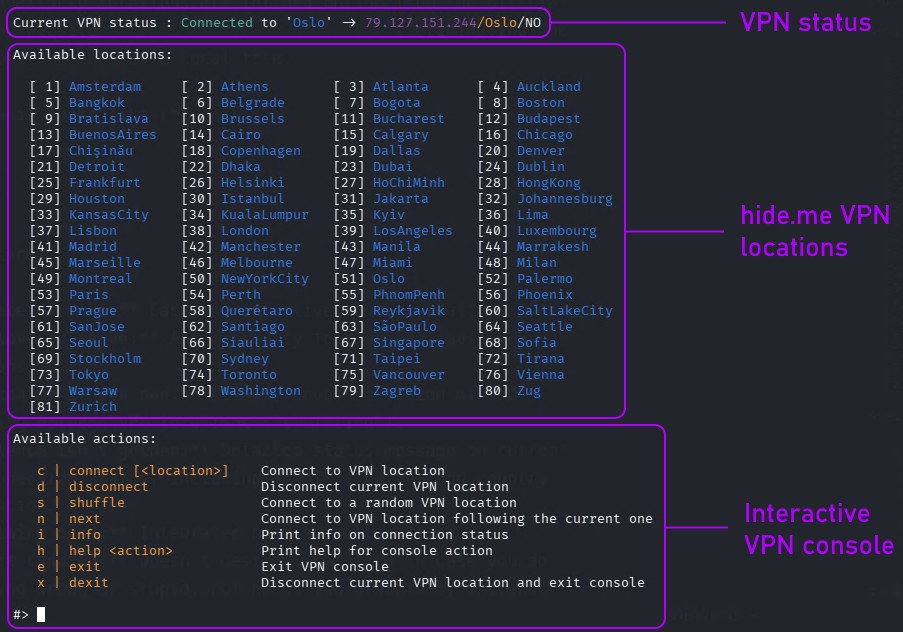
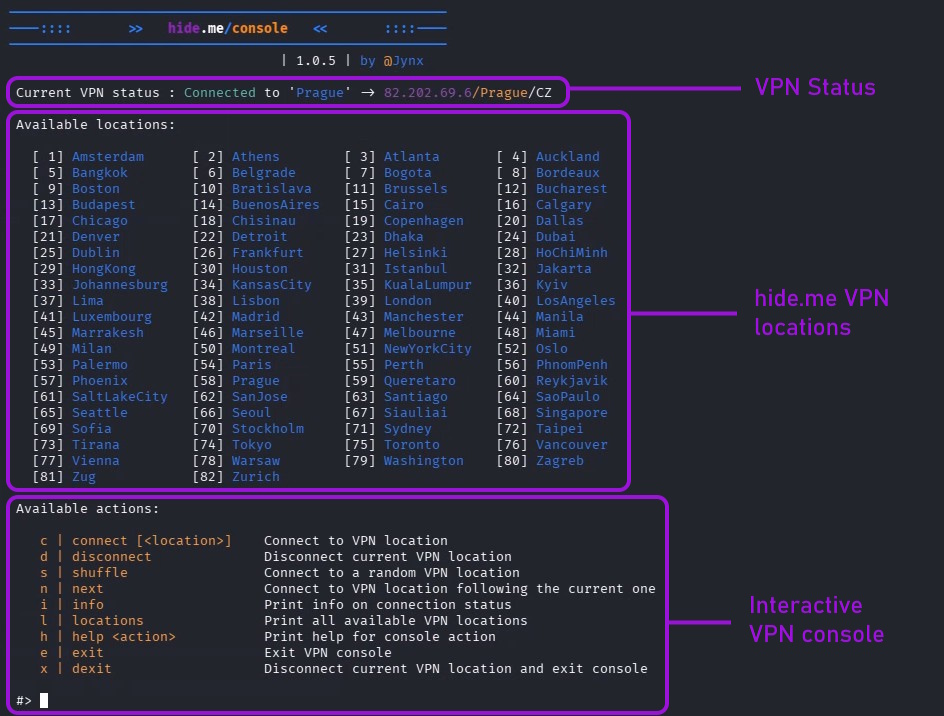
Added action 'locations'; added removal of 'zombie' units; improved handling of locations with names that contain special characters; improved error handling; user experience and script feedback slightly improved.

Changed region(s): [[0.0, 0.0, 0.9922, 1.0]]

diff --git a/README.md b/README.md
@@ -5,7 +5,7 @@ ____     _     _     _                             __                       _   
   > > > | '_ \| |/ _` |/ _ \ | '_ ` _ \ / _ \   / / __/ _ \| '_ \/ __|/ _ \| |/ _ \ < < <  
  / / /  | | | | | (_| |  __/_| | | | | |  __/  / / (_| (_) | | | \__ \ (_) | |  __/  \ \ \ 
 /_/_/   |_| |_|_|\__,_|\___(_)_| |_| |_|\___| /_/ \___\___/|_| |_|___/\___/|_|\___|   \_\_\
-																	       @Jynx                                                                 
+											             Version 1.0.5			 @Jynx                                                                 
 ```
 
 # ## hide.me/console
@@ -25,6 +25,15 @@ Here's how it looks like...
 - **Silence isn't golden:** Detailed status message on current VPN connection status, including WAN IP, region, and country information.
 - **Helping hand:** Integrated help for all actions.
 - **Soft landing:** Doesn't destroy your life in case you do something wrong or stupid, but helps you gracefully instead.
+
+## ## What's new in Version 1.0.5?
+
+Fueled by sleepless nights and way too much coffee, I spared no expense or effort to bring you the following changes:
+
+* **Cool new action to play with:** The `locations` action has been added to the interactive console so you can fetch and view the full list of VPN locations at any time. Curious? Then check out the details in the main guide below.
+* **Location name normalization, AKA grudgingly necessary bugfix:** VPN locations with weird special characters in their names—like "à", "ñ", or God knows what else (thanks a lot, France & Co.!)—are now automatically normalized because the hide.me service can't handle them. In other words: connecting to these locations is only possible if special characters are normalized, i.e. "à" becomes "a", "ñ" becomes "n", and so on. That’s exactly what happens now. Automatically. No voodoo required (anymore).
+* **Removing zombie units, AKA grudgingly necessary bugfix, part 2:** If a connection to a VPN location fails (for instance, because its name wasn't normalized...), hide.me leaves behind a rather weird "zombie unit"" that serves no purpose whatsoever—other than blocking all future VPN connections. Only hide.me knows why that’s even a thing. In any case, the script now tries its absolute best to clean up those zombies.
+* **Pleasing the customer (that's you!):** General error handling and console logging of the script was polished up a bit.
 
 ## ## Prerequisites
 
@@ -82,7 +91,7 @@ You can run the script as a regular user or using `sudo`. Using `sudo` prevents 
 
 The script does not take any launch arguments; it doesn't need to. Everything related to hide.me is handled via inputs directly within the hide.me/console. It's an interactive tool, remember? (In case you don't remember, please skip back to the beginning of this document and start reading again.)
 
-**| Pro tip for particularly cool (or lazy) people |**
+**Pro tip for particularly cool (or lazy) people**
 
 Create an alias for the script in your `.bashrc` or `.zshrc` file—or whatever shell and Linux distribution you're a fan of and are using and however the corresponding rc file is named there. Such an alias makes your VPN-based life much easier and convenient.
 
@@ -194,6 +203,16 @@ The info action displays whether a connection to a VPN location is currently act
 
 For anyone who still hasn't grasped the concept by now: This action can either be written out in full ("`info`"), or abbreviated as just "`i`" (yes, I keep copying and pasting this line; I told you, I'm lazy.).
 
+**| List VPN locations |**
+
+```
+l | locations 
+```
+
+This action does the exact same thing that happens when the script starts—the part you see near the top of the console: it fetches all available VPN locations from the hide.me website and displays them. I figured this might come in handy if you switch locations often and the original list has scrolled way off your screen. If you disagree, feel free to ignore and forget this action ever existed. Just pretend it’s not there.
+
+Surprise, surprise: This action can either be written out in full ("`locations`"), or abbreviated as just "`l`".
+
 **| Help on actions |**
 
 ```
@@ -247,3 +266,9 @@ When in doubt, just hit me up. Most people say I'm a nice guy. (The others were 
 What a brilliant transition: here is my contact info in case you want to get in, well, contact with me.
 
 [jynxified@proton.me](jynxified@proton.me)
+
+## ## History
+
+* **1.0.5 (2026-07-24):** Added action "locations"; added removal of "zombie" units; improved handling of locations with names that contain special characters; improved error handling; user experience and script feedback slightly improved.
+* **1.0.1 (2026-07-09):** Added actions "shuffle", "next", and "dexit"; added help texts.
+* **1.0.0 (2026-07-07):** Initial version.
